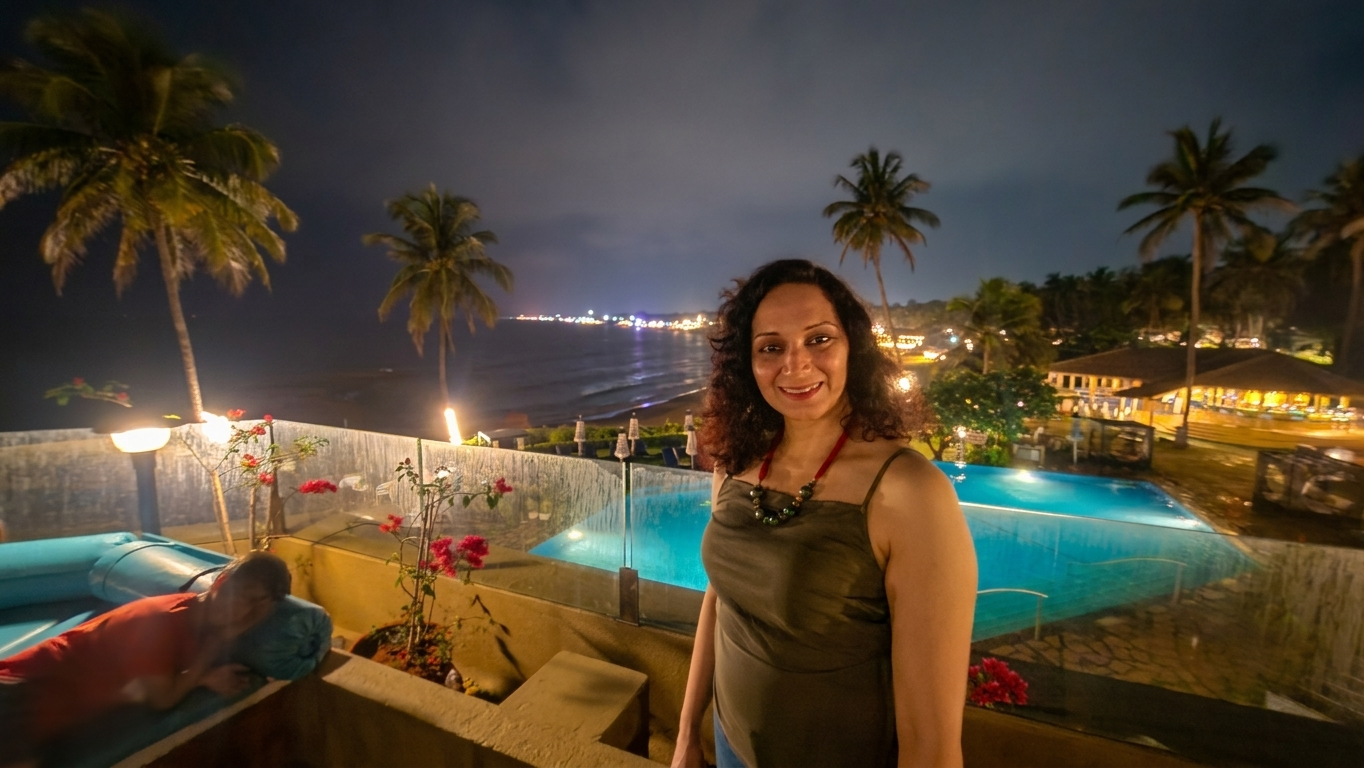
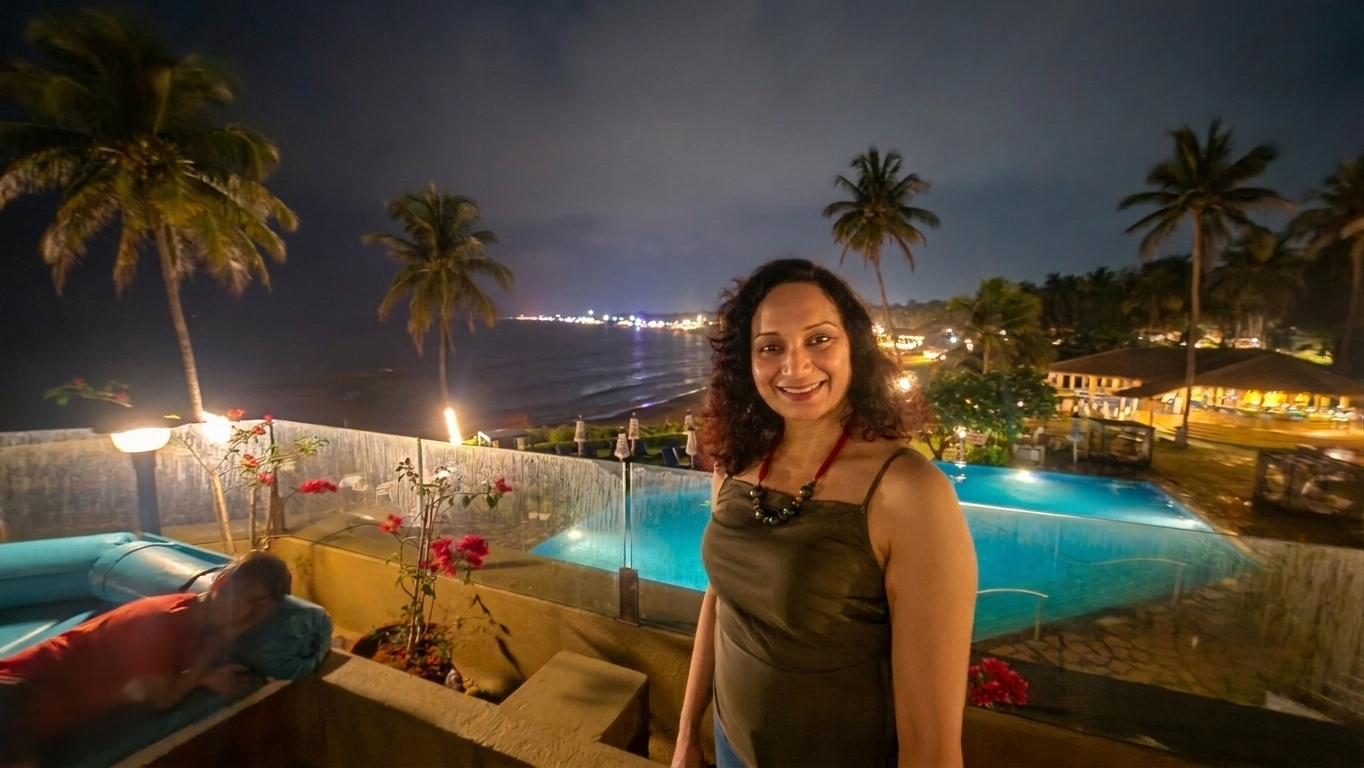
auto-commit for 931461c3-83ff-4cf3-802b-a3310a8e4e5e

Changed region(s): [[0.5235, 0.375, 0.6774, 0.5625], [0.8622, 0.5, 0.893, 0.5312], [0.1848, 0.5938, 0.2155, 0.625]]

diff --git a/scripts/enhance_hero.py b/scripts/enhance_hero.py
@@ -12,23 +12,26 @@ from emergentintegrations.llm.chat import LlmChat, UserMessage, ImageContent
 load_dotenv(Path(__file__).resolve().parent.parent / "backend" / ".env")
 
 SRC_URL = "https://customer-assets.emergentagent.com/job_5518da31-3818-4830-8b4a-5491945b0483/artifacts/q983tzlw_20260426_205838.jpg"
+LOCAL_SRC = Path("/app/frontend/public/poet-hero.jpg")
 DEST_DIR = Path("/app/frontend/public")
 DEST_PATH = DEST_DIR / "poet-hero.jpg"
 
 PROMPT = (
-    "Re-render the SAME woman in the SAME exact pose, same dress, same location "
-    "(rooftop balcony at night by the sea with palm trees and pool), but transform "
-    "the photo as if shot by a professional editorial portrait photographer. "
-    "Specifically: brighten the overall exposure tastefully so her face and the "
-    "background are clearly visible; lift the shadows; warm the highlights gently; "
-    "render skin tone naturally and flattering; preserve her facial features, "
-    "expression, hair and identity EXACTLY — do not alter her face. "
-    "Remove the lens flare, light streaks and glare/shiny artifacts (the diagonal "
-    "streaks crossing the image and any bright reflection blobs) so the scene looks "
-    "clean. Keep the warm pool lights and city lights in the background, but make "
-    "them feel like soft, cinematic bokeh rather than harsh glare. Maintain the "
-    "same composition (subject on the right, ocean & palms on the left, pool on "
-    "the lower right). Output a single sharp, color-graded, magazine-quality image."
+    "Refine THIS portrait. Keep the SAME woman, same face, same identity, same "
+    "dress, same setting (rooftop balcony at night by the sea). Make two subtle "
+    "adjustments only:\n"
+    "1) Brighten her FACE gently and naturally, as if it were lit by a soft "
+    "lantern or warm ambient light — NOT a camera flash. No harsh white "
+    "highlights, no washed-out skin, no over-exposed cheeks. Lift the shadows "
+    "on her face just enough to make it visible and warm; keep the rest of the "
+    "image (sky, sea, palms, pool) at its current brightness so the mood stays "
+    "evening/twilight.\n"
+    "2) Make her smile a touch warmer and more relaxed — a softly happy, "
+    "genuine smile. Do NOT widen the mouth or show more teeth dramatically; "
+    "just a gentle, natural improvement. Preserve her exact facial features, "
+    "eye shape, nose, jawline and hair.\n"
+    "Keep skin texture realistic — not airbrushed. Maintain editorial portrait "
+    "quality. Output one image."
 )
 
 
@@ -37,15 +40,20 @@ async def main():
     if not api_key:
         sys.exit("EMERGENT_LLM_KEY missing")
 
-    print("Downloading source image…")
-    with urllib.request.urlopen(SRC_URL) as r:
-        src_bytes = r.read()
+    print("Loading source image…")
+    if LOCAL_SRC.exists():
+        src_bytes = LOCAL_SRC.read_bytes()
+        print(f"  using local: {LOCAL_SRC}")
+    else:
+        with urllib.request.urlopen(SRC_URL) as r:
+            src_bytes = r.read()
+        print("  downloaded from URL")
     src_b64 = base64.b64encode(src_bytes).decode("utf-8")
     print(f"  source size: {len(src_bytes)} bytes")
 
     chat = LlmChat(
         api_key=api_key,
-        session_id="poet-hero-enhance",
+        session_id="poet-hero-refine",
         system_message="You are a professional editorial portrait retoucher.",
     ).with_model("gemini", "gemini-3.1-flash-image-preview").with_params(
         modalities=["image", "text"]
